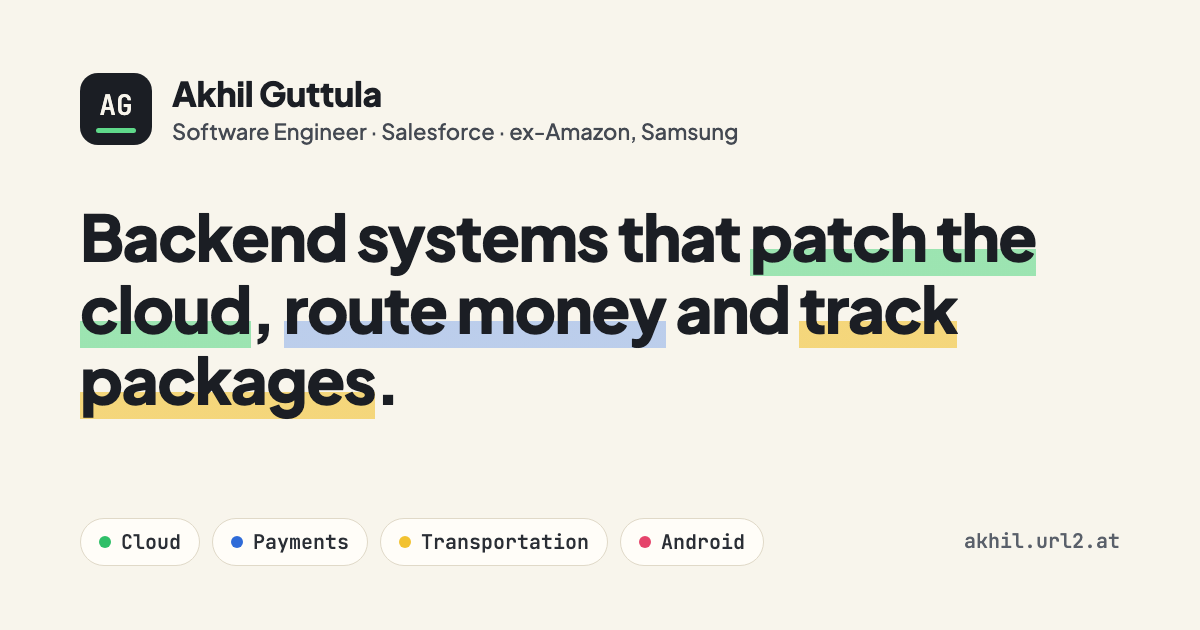
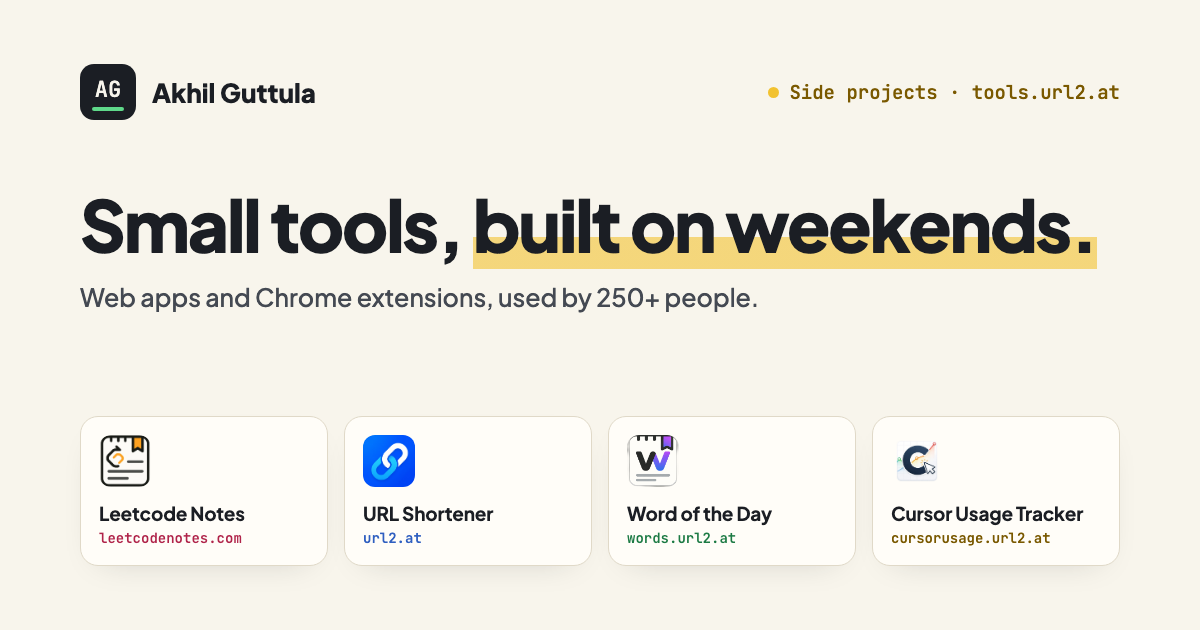
Use side-projects card as social preview image

diff --git a/index.html b/index.html
@@ -16,10 +16,10 @@
   <meta property="og:image" content="https://akhil.url2.at/og-image.png">
   <meta property="og:image:width" content="1200">
   <meta property="og:image:height" content="630">
-  <meta property="og:image:alt" content="Akhil Guttula, Software Engineer: backend systems that patch the cloud, route money and track packages.">
+  <meta property="og:image:alt" content="Akhil Guttula - Small tools, built on weekends: Leetcode Notes, URL Shortener, Word of the Day and Cursor Usage Tracker.">
   <meta name="twitter:card" content="summary_large_image">
   <meta name="twitter:image" content="https://akhil.url2.at/og-image.png">
-  <meta name="twitter:image:alt" content="Akhil Guttula, Software Engineer: backend systems that patch the cloud, route money and track packages.">
+  <meta name="twitter:image:alt" content="Akhil Guttula - Small tools, built on weekends: Leetcode Notes, URL Shortener, Word of the Day and Cursor Usage Tracker.">
 
   <link rel="icon" href="favicon.svg" type="image/svg+xml">
 
@@ -45,8 +45,8 @@
       <ul class="nav__links" id="nav-links">
         <li><a href="#work">Work</a></li>
         <li><a href="#impact">Impact</a></li>
-        <li><a href="#tools">Tools</a></li>
-        <li><a href="#toolbox">Toolbox</a></li>
+        <li><a href="#projects">Side Projects</a></li>
+        <li><a href="#skills">Skills</a></li>
       </ul>
 
       <div class="nav__actions">
@@ -255,8 +255,8 @@
       </div>
     </section>
 
-    <!-- Tools -->
-    <section id="tools" class="container tools" aria-labelledby="tools-title">
+    <!-- Side projects -->
+    <section id="projects" class="container tools" aria-labelledby="tools-title">
       <div class="tools__head">
         <div class="section-head reveal">
           <p class="eyebrow mono c-yellow"><span class="dot"></span>Side projects · tools.url2.at</p>
@@ -331,11 +331,11 @@
       </article>
     </section>
 
-    <!-- Toolbox -->
-    <section id="toolbox" class="toolbox" aria-labelledby="toolbox-title">
+    <!-- Skills -->
+    <section id="skills" class="toolbox" aria-labelledby="toolbox-title">
       <div class="container toolbox__inner">
         <div class="section-head section-head--center reveal">
-          <p class="eyebrow mono c-pink"><span class="dot"></span>Toolbox</p>
+          <p class="eyebrow mono c-pink"><span class="dot"></span>Skills</p>
           <h2 id="toolbox-title" class="section-title">What I reach for.</h2>
         </div>
 
@@ -396,7 +396,7 @@
         </div>
         <ul class="footer__links">
           <li><a href="#work">Work</a></li>
-          <li><a href="#tools">Tools</a></li>
+          <li><a href="#projects">Side Projects</a></li>
           <li><a href="https://tools.url2.at" target="_blank" rel="noopener">tools.url2.at</a></li>
           <li><a href="https://www.linkedin.com/in/akhil-guttula/" target="_blank" rel="noopener">LinkedIn</a></li>
         </ul>
